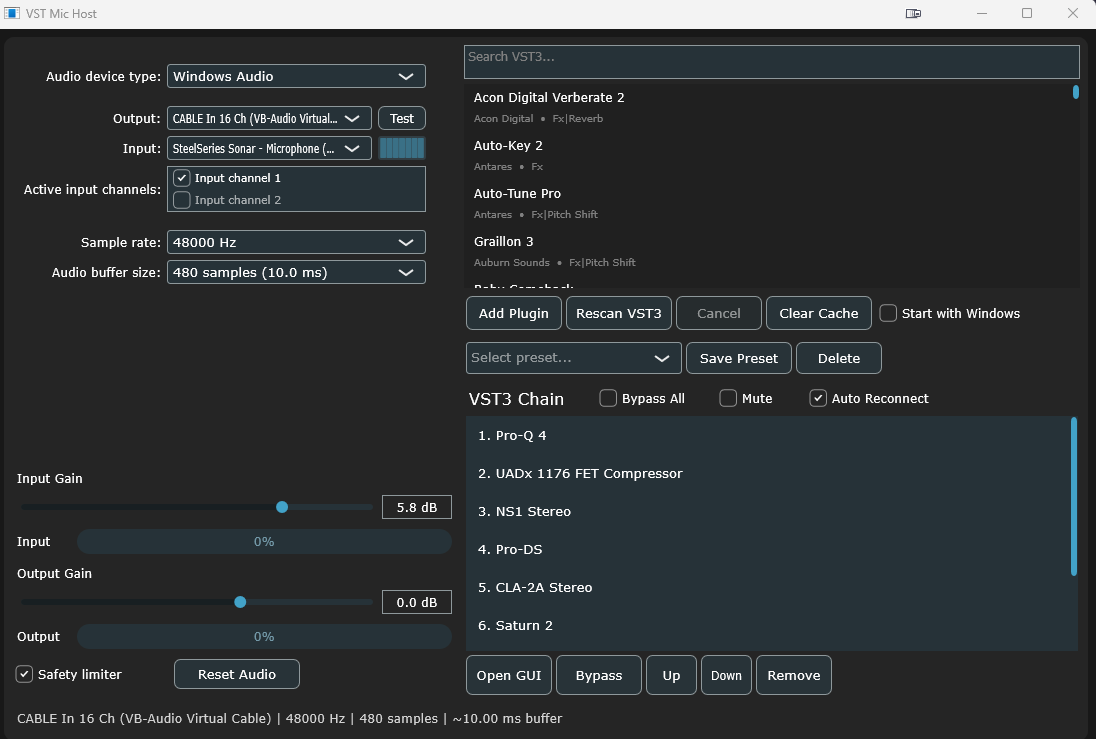
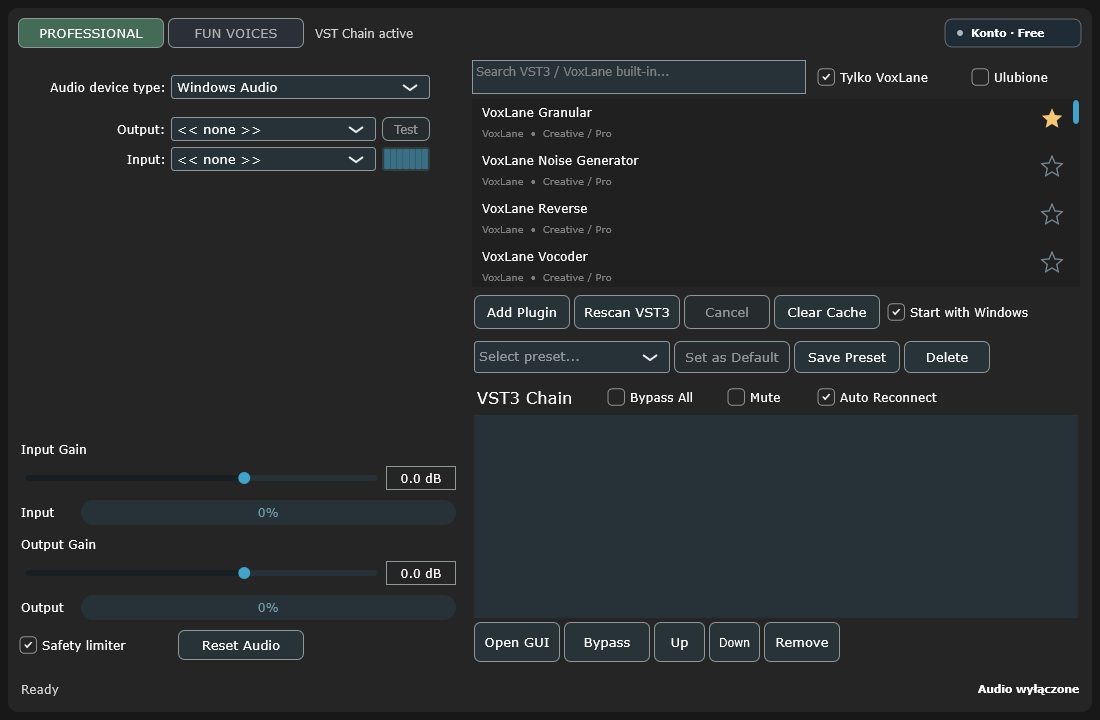
Publish VoxLane Beta 0.7 live release documentation

diff --git a/docs/account/account.js b/docs/account/account.js
@@ -2,8 +2,8 @@
 const query=new URLSearchParams(location.search);
 const language=['pl','en'].includes(query.get('lang'))?query.get('lang'):(navigator.language.toLowerCase().startsWith('pl')?'pl':'en');
 const messages={
- pl:{title:'Konto VoxLane',email:'E-mail',password:'Hasło',login:'Zaloguj',signup:'Utwórz konto',forgot:'Nie pamiętasz hasła?',newPassword:'Nowe hasło',save:'Zapisz',back:'Wróć',confirm:'Potwierdź e-mail',reset:'Zmień hasło',inbox:'Sprawdź pocztę.',verified:'E-mail potwierdzony.',changed:'Hasło zmienione.',logged:'Zalogowano jako',shortPassword:'Minimum 10 znaków.',incorrect:'Nieprawidłowy e-mail lub hasło.',expired:'Link wygasł. Poproś o nowy.',network:'Sprawdź połączenie z internetem.',error:'Nie udało się. Spróbuj ponownie.',emailRequired:'Podaj e-mail.',wait:'Spróbuj ponownie za chwilę.',confirmFirst:'Potwierdź e-mail.',success:'Zakup przyjęty. W aplikacji kliknij „Sprawdź zakup”.',cancel:'Zakup anulowany.',test:'Płatności testowe',price:'Pro · 25 zł jednorazowo'},
- en:{title:'VoxLane account',email:'Email',password:'Password',login:'Log in',signup:'Create account',forgot:'Forgot password?',newPassword:'New password',save:'Save',back:'Back',confirm:'Confirm email',reset:'Reset password',inbox:'Check your inbox.',verified:'Email confirmed.',changed:'Password changed.',logged:'Logged in as',shortPassword:'At least 10 characters.',incorrect:'Incorrect email or password.',expired:'Link expired. Request a new one.',network:'Check your internet connection.',error:'Could not complete this action. Try again.',emailRequired:'Enter your email.',wait:'Try again shortly.',confirmFirst:'Confirm your email.',success:'Purchase received. Click “Check purchase” in the app.',cancel:'Purchase cancelled.',test:'Test payments',price:'Pro · PLN 25 once'}
+ pl:{title:'Konto VoxLane',email:'E-mail',password:'Hasło',login:'Zaloguj',signup:'Utwórz konto',forgot:'Nie pamiętasz hasła?',newPassword:'Nowe hasło',save:'Zapisz',back:'Wróć',confirm:'Potwierdź e-mail',reset:'Zmień hasło',inbox:'Sprawdź pocztę.',verified:'E-mail potwierdzony.',changed:'Hasło zmienione.',logged:'Zalogowano jako',shortPassword:'Minimum 10 znaków.',incorrect:'Nieprawidłowy e-mail lub hasło.',expired:'Link wygasł. Poproś o nowy.',network:'Sprawdź połączenie z internetem.',error:'Nie udało się. Spróbuj ponownie.',emailRequired:'Podaj e-mail.',wait:'Spróbuj ponownie za chwilę.',confirmFirst:'Potwierdź e-mail.',success:'Wróć do VoxLane. Pro aktywuje się automatycznie po potwierdzeniu płatności.',cancel:'Zakup anulowany.',paymentMode:'Prawdziwe płatności przez Stripe',price:'Pro · 25 zł jednorazowo'},
+ en:{title:'VoxLane account',email:'Email',password:'Password',login:'Log in',signup:'Create account',forgot:'Forgot password?',newPassword:'New password',save:'Save',back:'Back',confirm:'Confirm email',reset:'Reset password',inbox:'Check your inbox.',verified:'Email confirmed.',changed:'Password changed.',logged:'Logged in as',shortPassword:'At least 10 characters.',incorrect:'Incorrect email or password.',expired:'Link expired. Request a new one.',network:'Check your internet connection.',error:'Could not complete this action. Try again.',emailRequired:'Enter your email.',wait:'Try again shortly.',confirmFirst:'Confirm your email.',success:'Return to VoxLane. Pro activates automatically after payment verification.',cancel:'Purchase cancelled.',paymentMode:'Real payments via Stripe',price:'Pro · PLN 25 once'}
 };
 const t=key=>messages[language][key],status=document.querySelector('#status');
 let cfg,access='';

diff --git a/docs/index.html b/docs/index.html
@@ -1,6 +1,6 @@
 <!doctype html>
 <html lang="en"><head><meta charset="utf-8"><meta name="viewport" content="width=device-width,initial-scale=1"><title>VoxLane</title><link rel="stylesheet" href="account/style.css"></head>
-<body><main><small>VOXLANE / BETA 0.7</small><h1 id="title">Your voice. Your sound.</h1><p id="intro">Real-time microphone processing for Windows. VST3 plugins, built-in processors and 100 Fun Voices.</p><p id="routing">Use a virtual audio cable to send your sound to Discord, OBS and games.</p><p id="price">Pro · PLN 25 once. Payments currently run in test mode.</p><p><a id="account" href="account/">VoxLane account</a></p><p><a id="github" href="https://github.com/Reekksio/VST-MIC-HOST-VoxLane-">Downloads and documentation</a></p><footer>VoxLane Beta 0.7</footer></main><script>
+<body><main><small>VOXLANE / BETA 0.7</small><h1 id="title">Your voice. Your sound.</h1><p id="intro">Real-time microphone processing for Windows. VST3 plugins, built-in processors and 100 Fun Voices.</p><p id="routing">Use a virtual audio cable to send your sound to Discord, OBS and games.</p><p id="price">Pro · PLN 25 once. Real payments via Stripe.</p><p><a id="account" href="account/">VoxLane account</a></p><p><a id="github" href="https://github.com/Reekksio/VST-MIC-HOST-VoxLane-/releases/tag/v0.7">Downloads and documentation</a></p><footer>VoxLane Beta 0.7</footer></main><script>
 const lang=navigator.language.toLowerCase().startsWith('pl')?'pl':'en';document.documentElement.lang=lang;document.querySelector('#account').href='account/?lang='+lang;
-if(lang==='pl'){for(const [id,value]of Object.entries({title:'Twój głos. Twoje brzmienie.',intro:'Przetwarzanie mikrofonu na żywo w Windows. Wtyczki VST3, wbudowane procesory i 100 Fun Voices.',routing:'Przekaż dźwięk przez wirtualny kabel do Discorda, OBS i gier.',price:'Pro · 25 zł jednorazowo. Płatności działają obecnie w trybie testowym.',account:'Konto VoxLane',github:'Pobieranie i dokumentacja'}))document.getElementById(id).textContent=value;}
+if(lang==='pl'){for(const [id,value]of Object.entries({title:'Twój głos. Twoje brzmienie.',intro:'Przetwarzanie mikrofonu na żywo w Windows. Wtyczki VST3, wbudowane procesory i 100 Fun Voices.',routing:'Przekaż dźwięk przez wirtualny kabel do Discorda, OBS i gier.',price:'Pro · 25 zł jednorazowo. Prawdziwe płatności przez Stripe.',account:'Konto VoxLane',github:'Pobieranie i dokumentacja'}))document.getElementById(id).textContent=value;}
 </script></body></html>

diff --git a/docs/account/index.html b/docs/account/index.html
@@ -1,7 +1,7 @@
 <!doctype html>
-<html lang="en"><head><meta charset="utf-8"><meta name="viewport" content="width=device-width,initial-scale=1"><meta name="referrer" content="no-referrer"><title>VoxLane account</title><link rel="stylesheet" href="style.css"><script src="account.js?v=3" defer></script></head>
+<html lang="en"><head><meta charset="utf-8"><meta name="viewport" content="width=device-width,initial-scale=1"><meta name="referrer" content="no-referrer"><title>VoxLane account</title><link rel="stylesheet" href="style.css"><script src="account.js?v=4" defer></script></head>
 <body><main><small>VOXLANE</small><h1 data-i18n="title">VoxLane account</h1>
 <form id="email-action" hidden><div class="buttons"><button id="verify-email" type="submit" data-i18n="confirm">Confirm email</button><button id="email-action-cancel" type="button" data-i18n="back">Back</button></div></form>
 <form id="account"><label><span data-i18n="email">Email</span><input id="email" type="email" autocomplete="email" required></label><label><span data-i18n="password">Password</span><input id="password" type="password" autocomplete="current-password" minlength="10" required></label><div class="buttons"><button type="submit" data-i18n="login">Log in</button><button type="button" id="signup" data-i18n="signup">Create account</button><button type="button" id="forgot" data-i18n="forgot">Forgot password?</button></div></form>
 <form id="recovery" hidden><label><span data-i18n="newPassword">New password</span><input id="new-password" type="password" minlength="10" autocomplete="new-password" required></label><button data-i18n="save">Save</button></form>
-<p id="status" role="status"></p><footer><span data-i18n="price">Pro · PLN 25 once</span><br><span data-i18n="test">Test payments</span> · Beta 0.7</footer></main></body></html>
+<p id="status" role="status"></p><footer><span data-i18n="price">Pro · PLN 25 once</span><br><span data-i18n="paymentMode">Real payments via Stripe</span> · Beta 0.7</footer></main></body></html>

diff --git a/docs/payment/payment.js b/docs/payment/payment.js
@@ -1,7 +1,7 @@
 'use strict';
 const query=new URLSearchParams(location.search);
 const lang=['pl','en'].includes(query.get('lang'))?query.get('lang'):(navigator.language.toLowerCase().startsWith('pl')?'pl':'en');
-const text={pl:{title:'Status płatności',success:'Wróć do VoxLane i kliknij „Sprawdź zakup”. Pro zostanie aktywowane po potwierdzeniu płatności.',cancelled:'Zakup anulowany. Możesz wrócić do VoxLane i spróbować ponownie.',price:'Pro · 25 zł jednorazowo · Bez subskrypcji',home:'Strona VoxLane'},en:{title:'Payment status',success:'Return to VoxLane and click “Check purchase”. Pro activates after payment verification.',cancelled:'Purchase cancelled. You can return to VoxLane and try again.',price:'Pro · PLN 25 once · No subscription',home:'VoxLane website'}}[lang];
+const text={pl:{title:'Status płatności',success:'Wróć do VoxLane. Pro aktywuje się automatycznie po potwierdzeniu płatności.',cancelled:'Zakup anulowany. Możesz wrócić do VoxLane i spróbować ponownie.',price:'Pro · 25 zł jednorazowo · Bez subskrypcji',home:'Strona VoxLane'},en:{title:'Payment status',success:'Return to VoxLane. Pro activates automatically after payment verification.',cancelled:'Purchase cancelled. You can return to VoxLane and try again.',price:'Pro · PLN 25 once · No subscription',home:'VoxLane website'}}[lang];
 document.documentElement.lang=lang;document.title='VoxLane · '+text.title;
 for(const id of ['title','price','home'])document.getElementById(id).textContent=text[id];
 document.getElementById('status').textContent=query.get('payment')==='cancelled'?text.cancelled:text.success;

diff --git a/docs/payment/index.html b/docs/payment/index.html
@@ -1,3 +1,3 @@
 <!doctype html>
-<html lang="en"><head><meta charset="utf-8"><meta name="viewport" content="width=device-width,initial-scale=1"><meta name="referrer" content="no-referrer"><title>VoxLane payment</title><link rel="stylesheet" href="../account/style.css"><script src="payment.js" defer></script></head>
-<body><main><small>VOXLANE</small><h1 id="title">Payment status</h1><p id="status" role="status">Return to VoxLane and click “Check purchase”. Pro activates after payment verification.</p><p id="price">Pro · PLN 25 once · No subscription</p><p><a id="home" href="../">VoxLane website</a></p><footer>VoxLane Beta 0.7</footer></main></body></html>
+<html lang="en"><head><meta charset="utf-8"><meta name="viewport" content="width=device-width,initial-scale=1"><meta name="referrer" content="no-referrer"><title>VoxLane payment</title><link rel="stylesheet" href="../account/style.css"><script src="payment.js?v=2" defer></script></head>
+<body><main><small>VOXLANE</small><h1 id="title">Payment status</h1><p id="status" role="status">Return to VoxLane. Pro activates automatically after payment verification.</p><p id="price">Pro · PLN 25 once · No subscription</p><p><a id="home" href="../">VoxLane website</a></p><footer>VoxLane Beta 0.7</footer></main></body></html>

diff --git a/README.md b/README.md
@@ -1,65 +1,66 @@
-# VST-MIC-HOST-VoxLane-
+# VoxLane — Beta 0.7
+
 VoxLane is a portable real-time VST3 microphone host and audio processor for Windows, built with C++ and JUCE.
 
-It allows you to route your microphone through a customizable VST3 plugin chain and send the processed signal to a selected audio output.
+Process your microphone with external VST3 plugins, VoxLane's built-in processors or 100 Fun Voices, then send it to your chosen output or a virtual audio cable.
 
-No installation is required - VoxLane can be run as a portable application.
+## Download
+
+[Download VoxLane Beta 0.7](https://github.com/Reekksio/VST-MIC-HOST-VoxLane-/releases/download/v0.7/VoxLane-Beta-0.7.zip) · [Release notes](https://github.com/Reekksio/VST-MIC-HOST-VoxLane-/releases/tag/v0.7)
+
+Extract the ZIP and run **VST Mic Host Beta.exe**. Keep `VSTScanner.exe`, `voxlane-public.json` and `ThirdParty` beside it. No installation is required.
+
+An account and an internet connection are required to sign in and verify Pro access. Sign in once; the session is saved in Windows Credential Manager without storing your password.
+
+## Free and Pro
+
+**VoxLane Pro costs PLN 25 once and is linked to your account. There is no subscription. This release uses real Stripe payments.** Buy Pro from Account in the app; access refreshes automatically after payment verification.
+
+- Free: external VST3 hosting, safety limiter, Compressor, High Pass, Low Pass, Parametric EQ, Low Shelf, High Shelf and Noise Gate.
+- Pro: the remaining VoxLane built-in plugins, editable Fun Voice macros and custom User voice presets.
+- All accounts can use the 100 factory Fun Voices with their standard settings.
+
+Test purchases and live purchases have separate entitlements. A sandbox purchase does not unlock this live release.
 
 ## Screenshot
 
-![VoxLane](assets/voxlane.png)
+![VoxLane Professional](assets/voxlane.png)
+
+![VoxLane Fun Voices](assets/fun-voices.png)
 
 ## Features
 
-- VST3 plugin scanning and loading
-- Custom VST3 processing chain
-- Plugin reordering and bypass
-- Plugin GUI support
-- Input and output device selection
-- Sample rate and buffer size configuration
-- Active input channel selection
-- Input and output gain controls
-- Preset saving and loading
-- Safety limiter
-- Automatic audio reconnection
-- Start with Windows option
-- Portable - no installation required
+- VST3 scanning, plugin editors, reordering and bypass
+- 28 visible VoxLane built-in plugins with their own editors
+- 100 Fun Voices in 10 categories; search and favourites
+- A/B comparison, Undo/Redo and reset in built-in plugin editors
+- Actual compressor gain-reduction metering
+- Favourite plugins and a VoxLane-only filter
+- Microphone/output selection, sample rate, buffer size and gain controls
+- Preset saving/loading and a safety limiter
+- Automatic device reconnection; None remains selected when chosen
+- Approximate audio latency display
+- Polish and English account interface
+- Close to Windows tray; double-click the tray icon to reopen
+- Optional start with Windows
 
-## Using VoxLane with a Virtual Audio Cable
+Fun Voices starts at **CLEAN / No Effect**. Pitch/formant and layered-voice processing add algorithmic latency; total latency also depends on the device buffer and plugin chain.
 
-To use your processed microphone signal in Discord, OBS, games or other applications, VoxLane can be used together with a virtual audio cable.
+## Discord, OBS and other applications
 
-You can use:
+Use a virtual audio cable such as [VB-CABLE](https://vb-audio.com/Cable/):
 
-[VB-CABLE Virtual Audio Device](https://vb-audio.com/Cable/)
+1. Select your microphone as VoxLane's input.
+2. Select **CABLE Input** as VoxLane's output.
+3. Configure your processing chain or choose a Fun Voice.
+4. Select **CABLE Output** as the microphone in Discord, OBS or another application.
 
-### Setup
+`Microphone → VoxLane → VB-CABLE → Discord / OBS / Game`
 
-1. Install VB-CABLE.
-2. Open VoxLane.
-3. Select your physical microphone as the input device.
-4. Select `CABLE Input` as the output device.
-5. Add and configure your VST3 plugins.
-6. In Discord, OBS, a game or another application, select `CABLE Output` as your microphone/input device.
+The device test tone tests the output directly. If it plays but your microphone is silent, check the selected microphone, its active channel and VoxLane's **Mute** control.
 
-Audio routing:
+## Project status
 
-`Microphone → VoxLane → VST3 Chain → VB-CABLE → Discord / OBS / Game / Other App`
+VoxLane is under development. Beta 0.7 is a prerelease; report reproducible issues through GitHub Issues.
 
-The application will then receive the microphone signal after it has been processed by VoxLane.
-
-## Planned Features
-
-Future versions of VoxLane are planned to include:
-
-- Original built-in audio plugins
-- Audio processing without requiring external VST3 plugins
-- **Fun Voices** - presets for funny and unusual voice effects created using VoxLane's built-in plugins
-- More preset options
-- Additional audio processing and routing features
-
-## Open Source
-
-VoxLane is currently under development.
-
-The project is planned to become open source in the future.
+This repository contains downloads, screenshots and the public account website. The application's C++ source is not public at this stage. Open-source publication remains a future plan.
